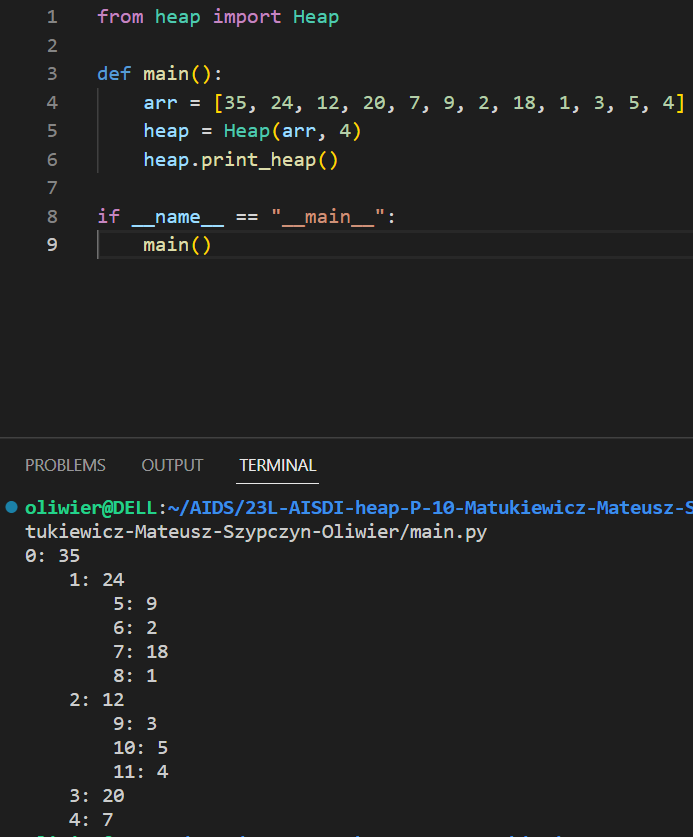
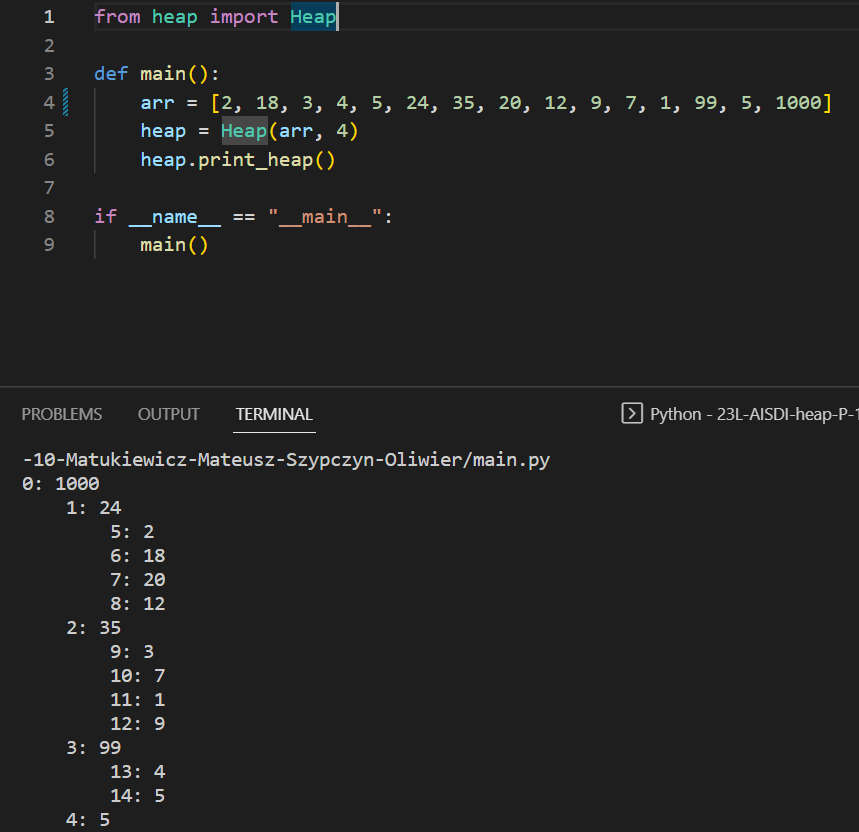
Fixed graphs functions and added better examples of heaps

diff --git a/main.py b/main.py
@@ -1,114 +1,93 @@
 from heap import Heap
-from random import randint as jd
+import random
 import time
 import gc
 from matplotlib import pyplot as plt
-import sys
 import os
 
 
 def main():
-    heap = Heap([35, 24, 12, 20, 7, 9], 4)
-    heap.print_heap()
+    numbers = [random.randint(1, 30000) for _ in range(100000)]
+    # get_creation_heap_graphs(numbers, 'Heaps_creation_times.png')
+    # get_remove_root_heap_graphs(numbers, 'Heap_remove_root_times.png')
 
-    heap.slide_down(2)
-    heap.print_heap()
-
-    # nums = [jd(1,30_000) for _ in range(10_000)]
-    #get_creation_heap_graphs(nums,'Heaps_creation_times.png')
-    # get_remove_root_heap_graphs(nums, 'Heap_remove_root_times.png')
-
-
-
-def get_creation_heap_graphs(numbers,title): # nar_num -> 2,3 or 4
-    xd = [1000, 2000, 3000, 4000, 5000, 6000, 7000, 8000, 9000, 10000]
-    x_axis = [(_*10) for _ in xd]
+def get_creation_heap_graphs(numbers, title):
+    x_axis = [10000, 20000, 30000, 40000, 50000, 60000, 70000, 80000, 90000, 100000]
     y_axis_2 = []
     y_axis_3 = []
     y_axis_4 = []
-    for range in x_axis: # 2-arny
+    for data in x_axis: # 2-arny
         gc_old = gc.isenabled()
         gc.disable()
         start = time.process_time()
-        Heap(numbers[:range],2)
+        Heap(numbers[:data], 2)
         stop = time.process_time()
         if gc_old: gc.enable()
         y_axis_2.append(stop - start)
-    for range in x_axis: # 3-arny
+    for data in x_axis: # 3-arny
         gc_old = gc.isenabled()
         gc.disable()
         start = time.process_time()
-        Heap(numbers[:range],3)
+        Heap(numbers[:data],3)
         stop = time.process_time()
         if gc_old: gc.enable()
         y_axis_3.append(stop - start)
-    for range in x_axis: # 4-arny
+    for data in x_axis: # 4-arny
         gc_old = gc.isenabled()
         gc.disable()
         start = time.process_time()
-        Heap(numbers[:range],4)
+        Heap(numbers[:data],4)
         stop = time.process_time()
         if gc_old: gc.enable()
         y_axis_4.append(stop - start)
-
-
     plt.plot(x_axis, y_axis_2, '-',label="binary heap")
     plt.plot(x_axis, y_axis_3, '-',label="ternary heap")
     plt.plot(x_axis, y_axis_4, '-',label="4-ary heap")
     plt.legend()
     plt.title(label='Heaps creation time graphs')
-    plt.xticks(color='teal')
     plt.yticks(color='teal')
     plt.xlabel(xlabel='Collection size')
     plt.ylabel(ylabel='Time in s')
     plt.grid(True)
-    if not os.path.exists('Heaps_plots'):
-        os.makedirs('Heaps_plots')
-    plt.savefig(os.path.join('Heaps_plots', title),dpi=200)
+    if not os.path.exists('heap_graphs'):
+        os.makedirs('heap_graphs')
+    plt.savefig(os.path.join('heap_graphs', title), dpi=200)
 
-
-def get_remove_root_heap_graphs(numbers,title): # nar_num -> 2,3 or 4
-    xd = [1000, 2000, 3000, 4000, 5000, 6000, 7000, 8000, 9000, 10000]
-    x_axis = [(_*10) for _ in xd]
+def get_remove_root_heap_graphs(numbers, title):
+    x_axis = [10000, 20000, 30000, 40000, 50000, 60000, 70000, 80000, 90000, 100000]
     y_axis_2 = []
     y_axis_3 = []
     y_axis_4 = []
-    heap_2 = Heap(numbers,2)
-    for range in x_axis: # 2-arny
+    for data in x_axis: # 2-arny
+        heap_2 = Heap(numbers.copy(), 2)
         gc_old = gc.isenabled()
         gc.disable()
         start = time.process_time()
-
-        for n in numbers[:range]: #  _not sure_
+        for _ in range(data):
             heap_2.remove_root()
-
         stop = time.process_time()
         if gc_old: gc.enable()
         y_axis_2.append(stop - start)
-
-    heap_3 = Heap(numbers,3)
-    for range in x_axis: # 3-arny
+    for data in x_axis: # 3-arny
+        heap_3 = Heap(numbers.copy(), 3)
         gc_old = gc.isenabled()
         gc.disable()
         start = time.process_time()
-        for n in numbers[:range]: # remove
+        for _ in range(data):
             heap_3.remove_root()
         stop = time.process_time()
         if gc_old: gc.enable()
         y_axis_3.append(stop - start)
-
-    heap_4 = Heap(numbers,4)
-    for range in x_axis: # 4-arny
+    for data in x_axis: # 4-arny
+        heap_4 = Heap(numbers.copy(), 4)
         gc_old = gc.isenabled()
         gc.disable()
         start = time.process_time()
-        for n in numbers[:range]: # remove
+        for _ in range(data):
             heap_4.remove_root()
         stop = time.process_time()
         if gc_old: gc.enable()
         y_axis_4.append(stop - start)
-
-
     plt.plot(x_axis, y_axis_2, '-',label="binary heap")
     plt.plot(x_axis, y_axis_3, '-',label="ternary heap")
     plt.plot(x_axis, y_axis_4, '-',label="4-ary heap")
@@ -119,10 +98,9 @@ def get_remove_root_heap_graphs(numbers,title): # nar_num -> 2,3 or 4
     plt.xlabel(xlabel='Collection size')
     plt.ylabel(ylabel='Time in s')
     plt.grid(True)
-    if not os.path.exists('Heaps_plots'):
-        os.makedirs('Heaps_plots')
-    plt.savefig(os.path.join('Heaps_plots', title),dpi=200)
-
+    if not os.path.exists('heap_graphs'):
+        os.makedirs('heap_graphs')
+    plt.savefig(os.path.join('heap_graphs', title), dpi=200)
 
 if __name__ == "__main__":
     main()

diff --git a/heap.py b/heap.py
@@ -13,12 +13,13 @@ class Heap:
             self.push(parent_index, value)                          # recursively push the value up
 
     def remove_root(self):
-        root_value = self.arr[0]                        # Save the root value
-        last_index = len(self.arr) - 1                  # Find the last index
-        self.arr[0] = self.arr[last_index]              # Move the last value to the root
-        self.arr.pop()                                  # Remove the last value
-        self.slide_down(curr_index = 0)                 # Slide the new root down until satisfied
-        return root_value
+        if self.arr:
+            root_value = self.arr[0]                        # Save the root value
+            last_index = len(self.arr) - 1                  # Find the last index
+            self.arr[0] = self.arr[last_index]              # Move the last value to the root
+            self.arr.pop()                                  # Remove the last value
+            self.slide_down(curr_index = 0)                 # Slide the new root down until satisfied
+            return root_value
 
     def slide_down(self, curr_index):
         while curr_index < len(self.arr):
